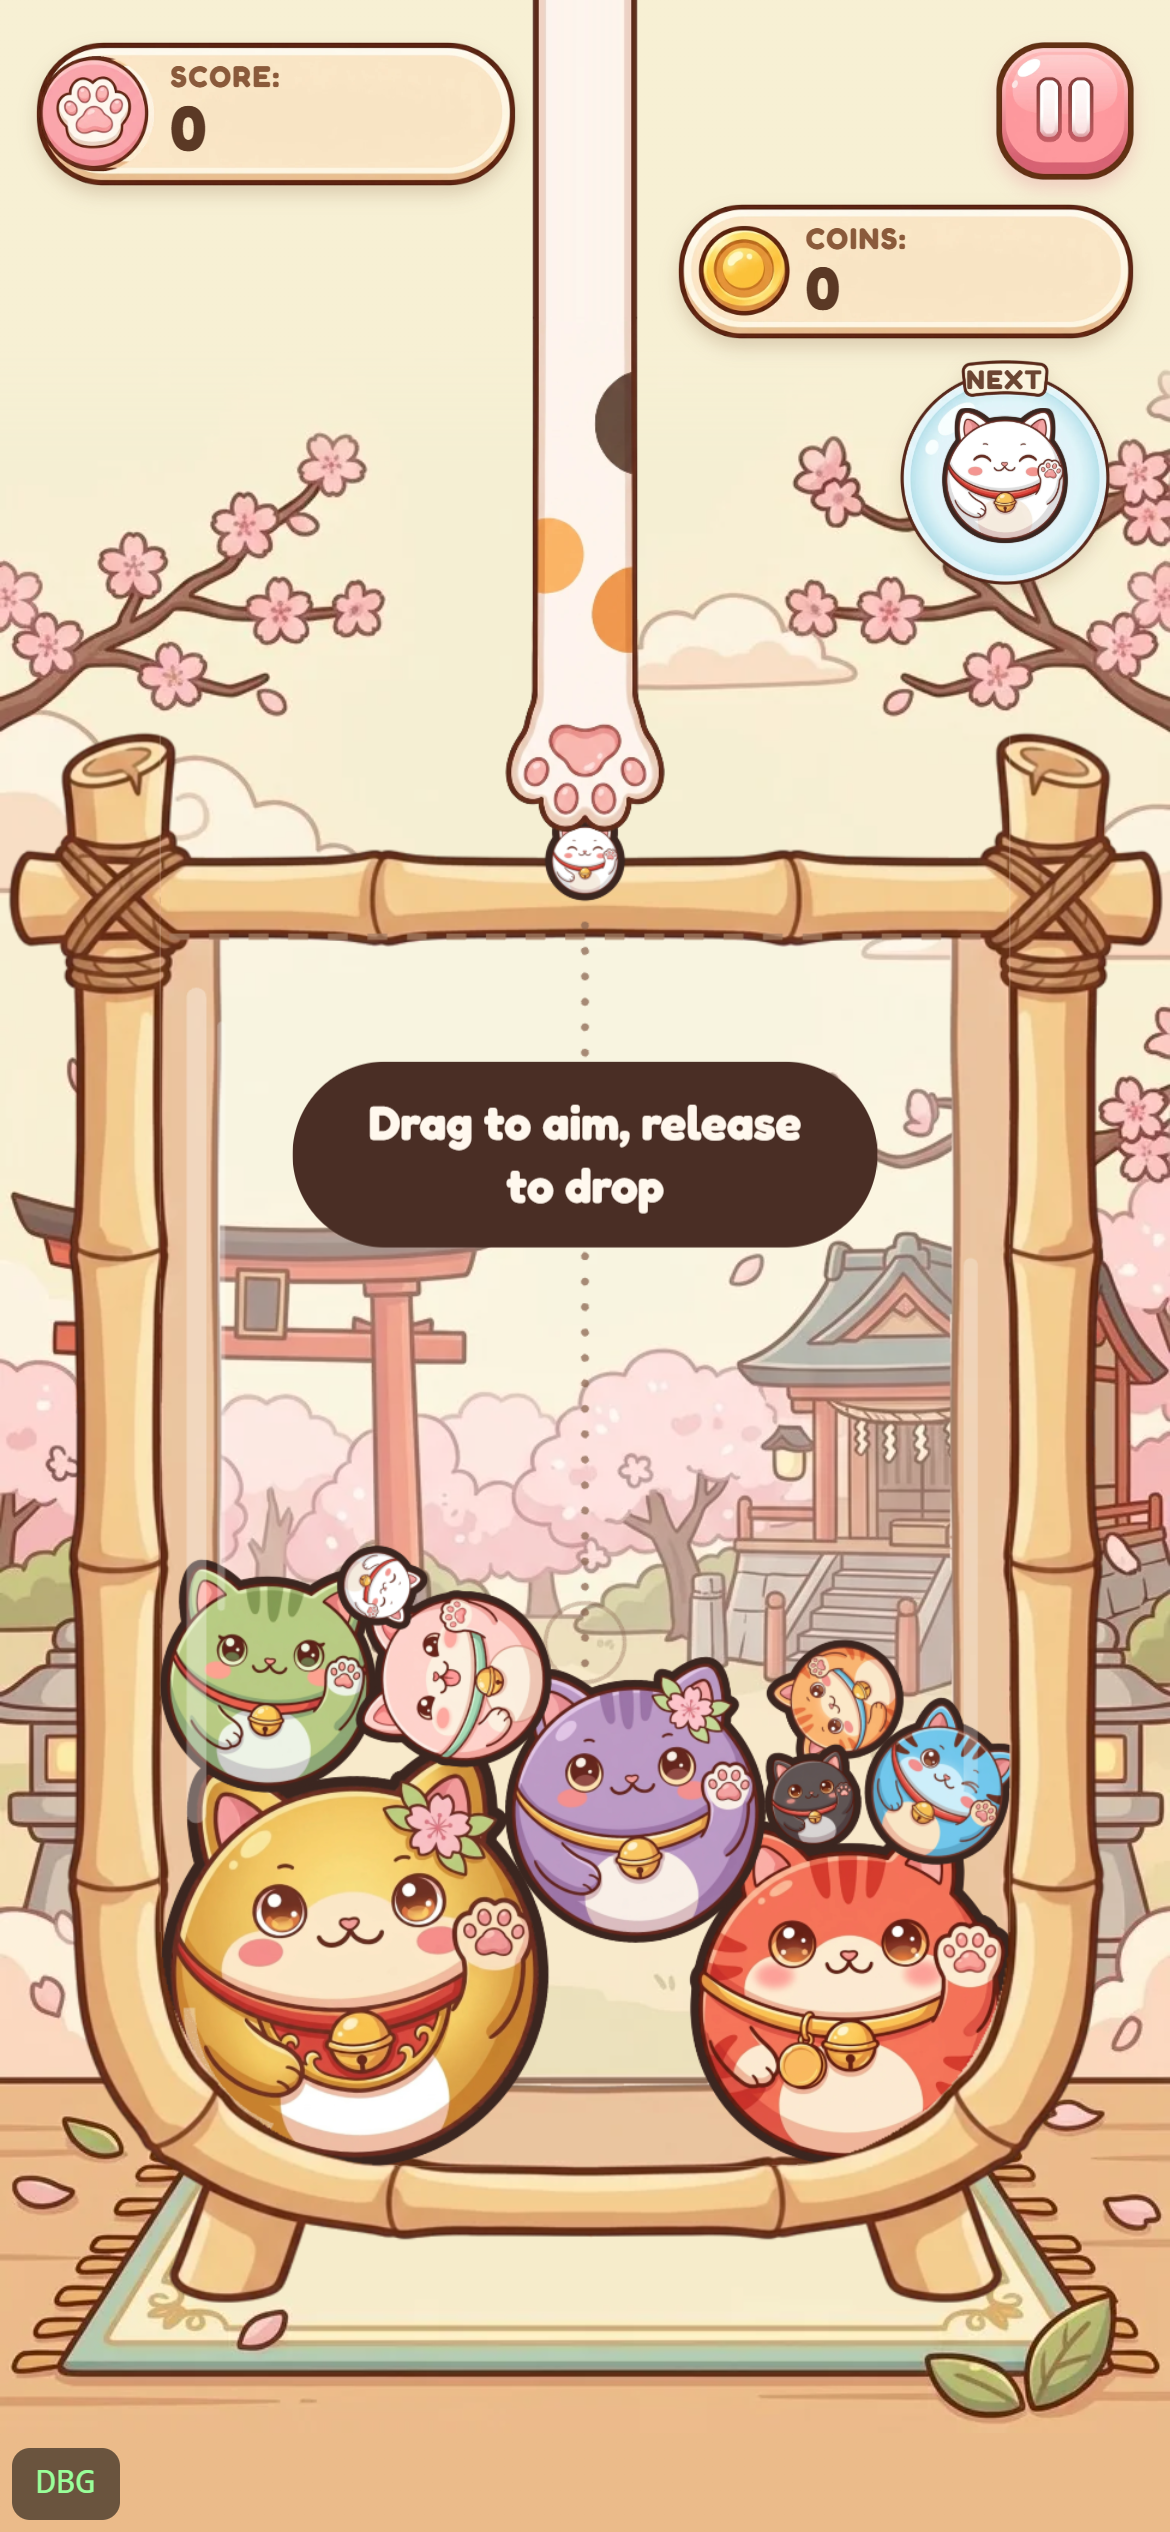
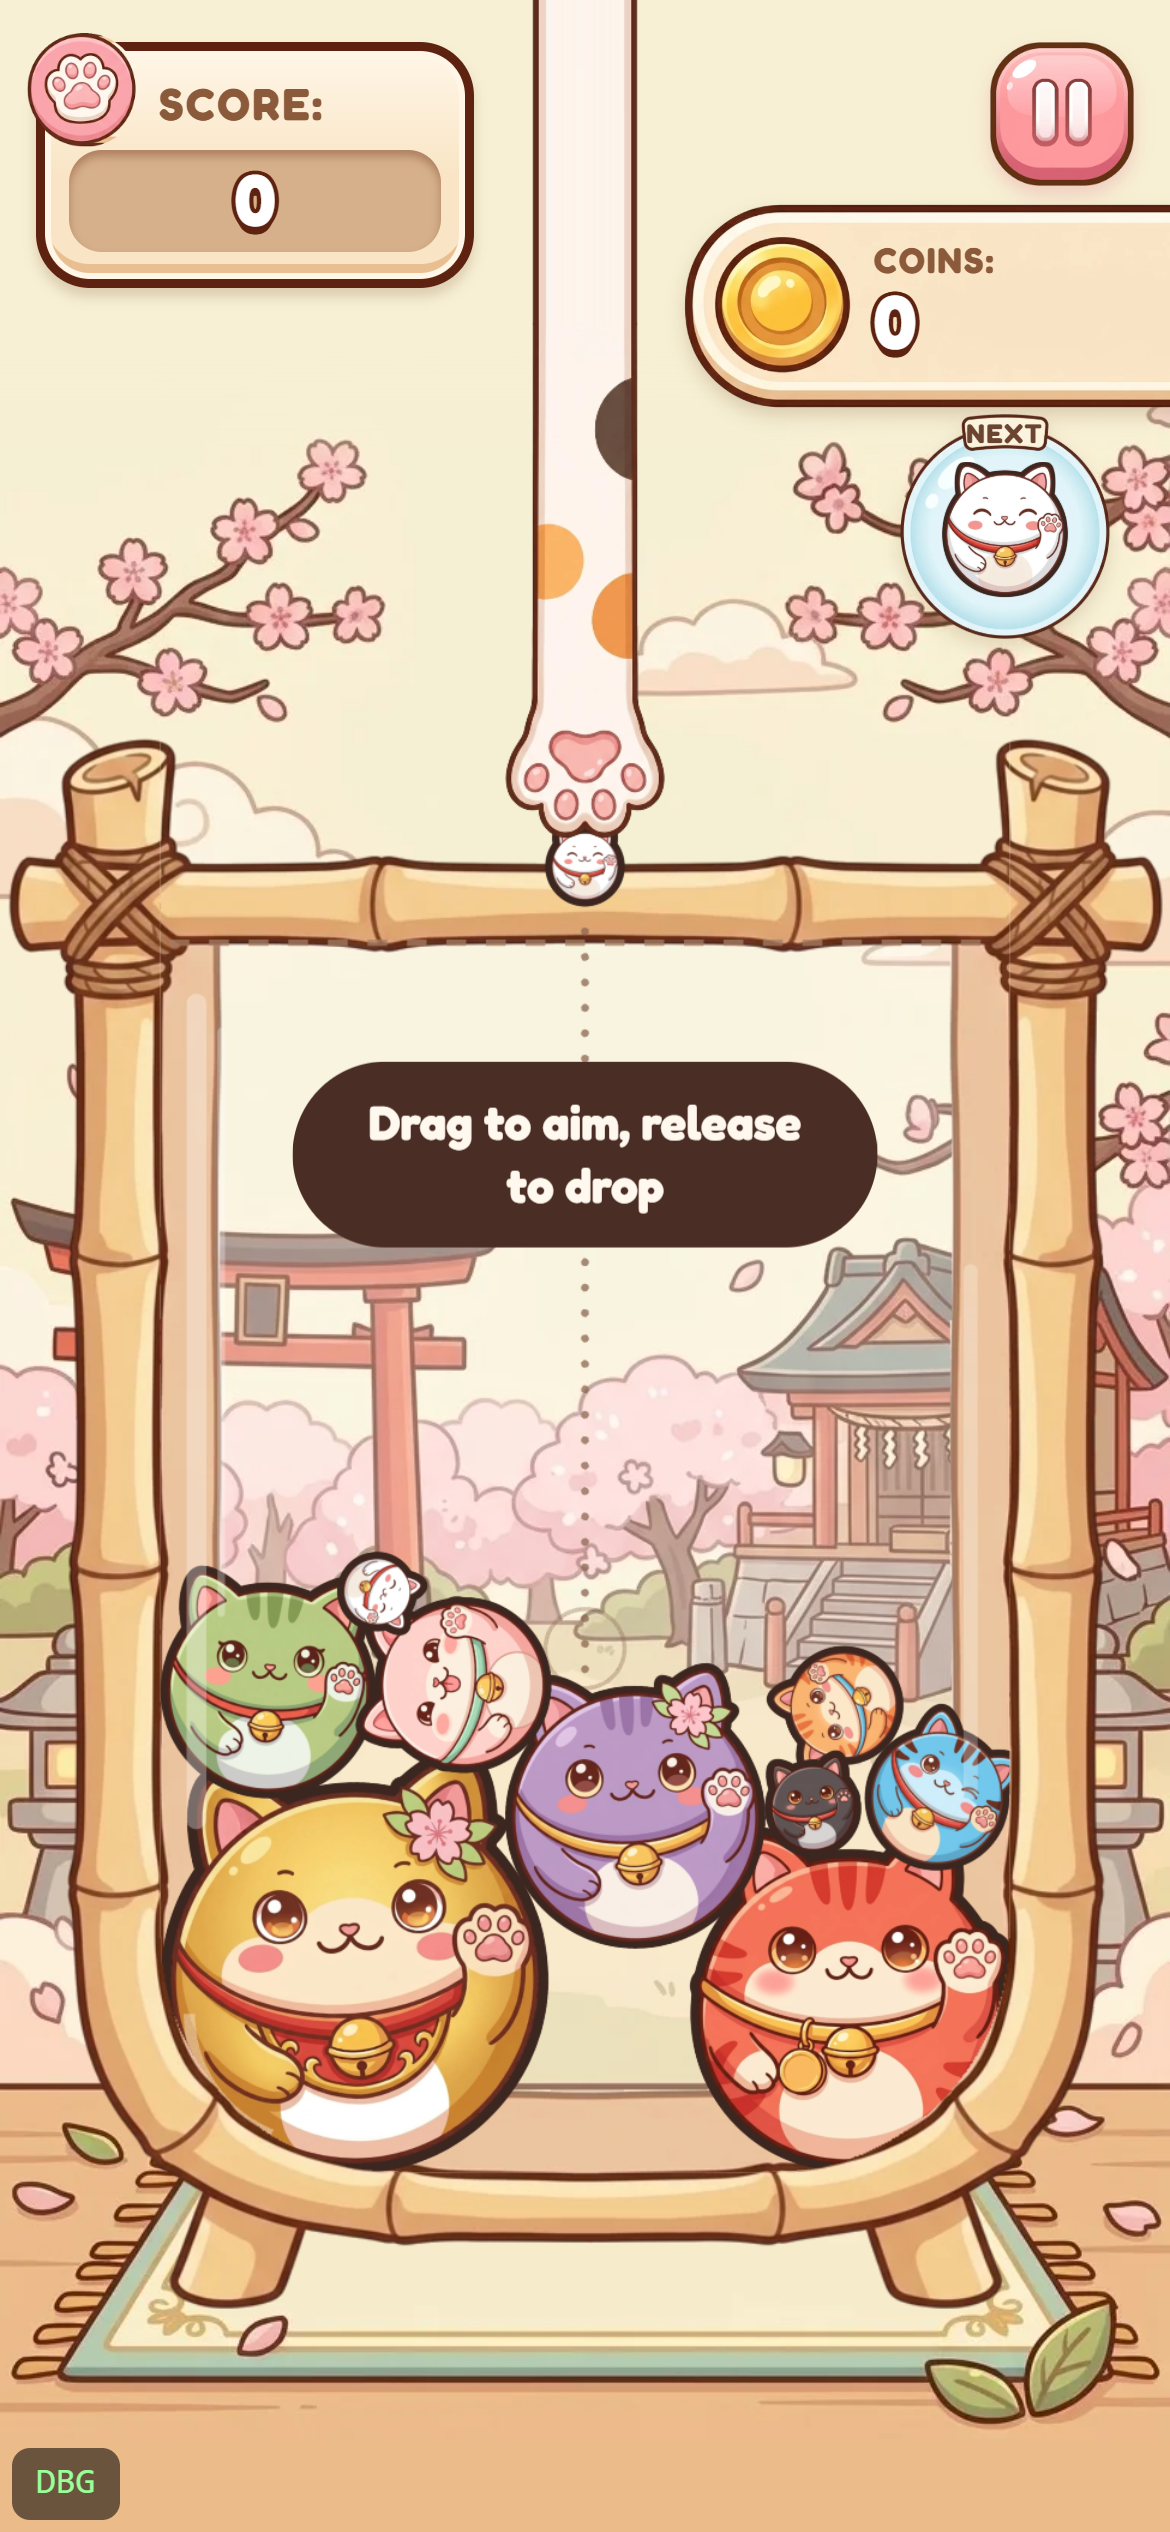
docs: the reference-style HUD; bump to 0.19.1

Changed region(s): [[0.0, 0.0, 1.0, 0.9672], [0.0308, 0.0, 0.4615, 0.1248], [0.4923, 0.2184, 0.5231, 0.2496]]

diff --git a/docs/GAME_DESIGN.md b/docs/GAME_DESIGN.md
@@ -284,7 +284,7 @@ The owner chose the scene in a design canvas (v0.14): a cream shrine garden, ink
 - **Jar** (v0.17 art; v0.14 layout): a bamboo U frame with curved bottom corners on two bamboo feet, a rail across the top tied to the posts with twine, and cut caps on the posts. The art's opening is stretched onto the physics jar (its inner edge, the glass's pale rim, lies inside the opening, behind the cats); the bamboo is drawn in front of the cats. Its corners are a little rounder than the physics corners (radius 168 against 112), so a cat deep in a corner tucks a few pixels behind the bamboo. A dashed line across the opening marks the rim (the danger line) and flashes red in danger (the vector jar's caps flash too). The glass is a pale wash, so the garden shows through it. The bamboo is thicker than the vector frame's, so the camera shows 0.19 of the jar's width beside each wall (0.15 before v0.17): a 283 px jar on a 390 px phone.
 - **Dropper** (v0.17 art): a calico paw (white with orange and dark spots, pink pads) hanging from the top of the screen; a plain row of its arm is stretched up to the screen's top.
 - **Background** (v0.17 art): a painted sakura shrine garden: sakura branches and clouds on a cream sky, a torii and a shrine seen through the glass, stone lanterns either side, and a rug on the wooden floor where the jar stands. It moves and scales with the jar so the feet stay on the rug; it always spans the screen's width, its top fades into the sky colour, and the floor colour fills the screen below it. The separate rug image is unused: the background has its own.
-- **HUD** (v0.19 art): two cream pill cards with a dark outline, the score card with a pink paw badge and the coins card with a gold coin on their left ends (the score card is the coins card with the badge pasted over its coin, so both match); cocoa labels in capitals and brown numbers after the badge; the next cat in a round pale blue glass bubble with a cream "NEXT" tag; a glossy pink pause button. Flying coins land on the card's coin. The vector HUD of v0.14 (cream cards with a tan edge) stays for `?skin=vector`.
+- **HUD** (v0.19 art, v0.19.1 layout from the owner's reference): the score card is a soft square in the coins card's colours (cream, dark outline, tan bottom edge), with the art's pink paw badge over its top-left corner, "SCORE:" beside it and the score in a sunken tan well. The coins card is the owner's image, run off the screen's right edge so it seems to come out of it, with a gold coin, "COINS:" and the run's coins. Both numbers are white with a thin brown edge. The next cat sits in a round pale blue glass bubble with a cream "NEXT" tag; the pause button is a glossy pink square. Flying coins land on the card's coin. The vector HUD of v0.14 stays for `?skin=vector`.
 - **Palette**: cream ground, paper plates, ink outlines and text, cocoa for labels; coral only for the primary button of a screen (PLAY, Resume, Play Again), gold for coins, rewards and progress, red for danger and badges, mint for secondary buttons and "on". One font: Fredoka (700 for titles, numbers and buttons; 500–600 for labels).
 
 ### 13.2 Placeholder (`?skin=placeholder`)

diff --git a/docs/TECH_SPEC.md b/docs/TECH_SPEC.md
@@ -296,7 +296,7 @@ Data flow: pointer input (game) → `RunController.drop(x)` → PhysicsWorld ste
   - Jar: cuts the white outside and the white opening, measures the opening from the bamboo's dark inner outline (walls, floor, the rail's underside as the rim, and the corner radius by best fit), and splits the image: inside the opening (the glass's rim, the rail) → `jar-back.webp`, the rest (the bamboo) → `jar-front.webp`. Each layer is cut into pieces (40-row bands, column runs) so the see-through middle costs no fill rate.
   - Paw: cuts the white (but not the arm's fur where it runs off the top edge), crops, finds a plain arm row and the paw's width.
   - Background: converts it and samples the sky and floor colours.
-- `tools/buildHud.ts` (v0.19), for `art-source/hud/coins`, `score`, `next` and `pause`: cuts and crops each; finds the coins card's gold coin (the text goes after it); builds the score card as the coins card with the score image's pink paw badge (its disc and outline) pasted over the coin; measures the bubble's circle and the cream tag on its rim. Data in `src/config/hudSpriteData.ts`; `ui/hud/hud.ts` uses the images as CSS backgrounds with the live text on top (`is-art`).
+- `tools/buildHud.ts` (v0.19), for `art-source/hud/coins`, `score`, `next` and `pause`: cuts and crops each; finds the coins card's gold coin (the text goes after it); cuts the pink paw badge (its disc and outline) out of the score image (the score card itself is CSS, v0.19.1); measures the bubble's circle and the cream tag on its rim. Data in `src/config/hudSpriteData.ts`; `ui/hud/hud.ts` uses the images as CSS backgrounds with the live text on top (`is-art`).
 - Still to come with their art: the menu art, and the PWA icons and iOS splash screens from `art-source/app-icon.png`.
 
 ## 15. Phaser 4 notes for agents

diff --git a/CHANGELOG.md b/CHANGELOG.md
@@ -2,6 +2,16 @@
 
 All notable changes to this project are documented here. Versions follow [Semantic Versioning](https://semver.org/).
 
+## [0.19.1] - 2026-10-07
+
+The HUD closer to the owner's reference image.
+
+### Changed
+
+- The score card is a soft square in the coins card's colours with the paw badge over its top-left corner, a bigger "SCORE:" and the score in a sunken tan well (it was a long thin pill like the coins card).
+- The coins card runs off the screen's right edge, is thicker, and shows its number bigger.
+- Both numbers are white with a thin brown edge.
+
 ## [0.19.0] - 2026-10-07
 
 The owner's HUD art (M13, phase 3 of docs/ART_ASSETS.md).

diff --git a/docs/ART_ASSETS.md b/docs/ART_ASSETS.md
@@ -265,8 +265,8 @@ no shadow. Portrait 2:3.
 ### 4.4 Phase 3: HUD
 
 **Done (2026-10-07):** the coins card, the pause button and the next bubble are in the game (v0.19).
-The generator couldn't draw the score card in the coins card's style, so the tool pastes the score
-image's paw badge onto the coins card instead. The stage card was dropped until it has art.
+The generator couldn't draw the score card in the coins card's style, so the score card is drawn in
+CSS (v0.19.1) with the paw badge cut out of the score image. The stage card was dropped until it has art.
 
 **HUD kit sheet** (`hud/hud-kit.png`), elements well apart on a white background:
 
